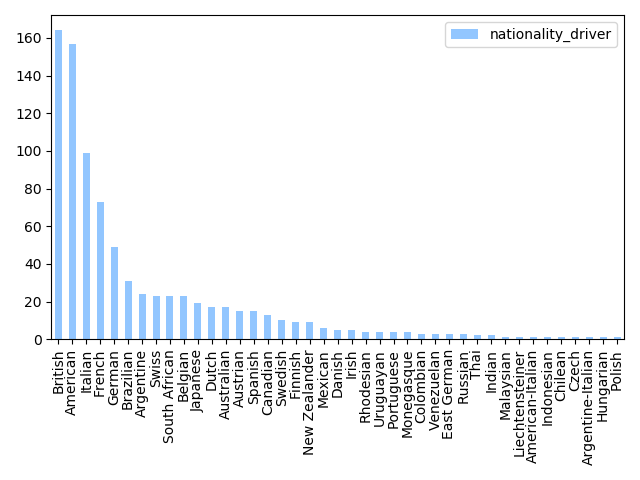
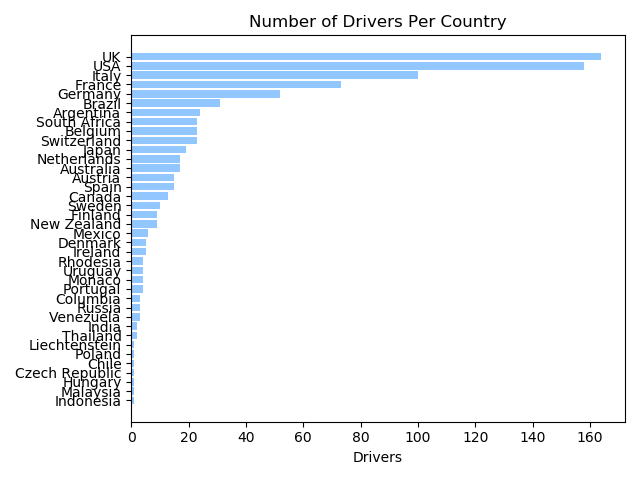
finished refactor and mvp functions

Changed region(s): [[0.0312, 0.0312, 1.0, 0.9688], [0.375, 0.875, 0.4062, 0.9375]]

diff --git a/src/f1_home_advantage.py b/src/f1_home_advantage.py
@@ -187,7 +187,7 @@ class F1Home:
             # the tilde (\~) signifies "not" so ~mask_driver_has_home_circuit reads 'not mask_driver_has_home_circuit'
             df_results_driver_no_home_race = df_valid_results[~mask_driver_has_home_circuit]
             # num_drivers_without_home_race = df_results_driver_no_home_race.groupby('driverId').unique().count()
-            # breakpoint()
+
             df_home_races = df_results_of_drivers_who_have_home_race[df_results_of_drivers_who_have_home_race['country_driver'] == df_results_of_drivers_who_have_home_race['country_cir']]
             df_away_races = df_results_of_drivers_who_have_home_race[df_results_of_drivers_who_have_home_race['country_driver'] != df_results_of_drivers_who_have_home_race['country_cir']]
 
@@ -209,7 +209,7 @@ class F1Home:
 
             return all_means, df_driver_means
 
-    def show_driver_country_vis(self):
+    def show_driver_country_vertical(self):
         dr_country = self.cleaned_drivers['nationality_driver'].value_counts().to_frame()
         dr_country.plot(kind='bar')
         plt.tight_layout()
@@ -219,18 +219,18 @@ class F1Home:
     def show_driver_countries(self):
             fig, ax = plt.subplots()
             country_names_dict = self.cleaned_drivers['country_driver'].value_counts().to_dict()
-            breakpoint()
+            countries = list(country_names_dict.values())
+            y_pos = np.arange(len(country_names_dict))
 
-            #y_pos
-            #WHY DON'T YOU WORK??????!!!!!!!  - AH-HA!have to use numbers on the x axis
-            
-            # driver_countries = self.cleaned_drivers['nationality_driver'].value_counts().to_dict()
-            # print(type(driver_countries))
-            # print(driver_countries)
-            # fig = plt.figure()
-            # ax = fig.add_subplot(111)
-            # ax.bar(driver_countries.keys(), driver_countries.items())
-            # ax.set_title('''Driver's Home Countries''')
+            ax.barh(y_pos, countries, align='center')
+            ax.set_yticks((y_pos))
+            ax.set_yticklabels(country_names_dict.keys())
+            ax.invert_yaxis() # labels read top-to-bottom
+            ax.set_xlabel('Drivers')
+            ax.set_title('Number of Drivers Per Country')
+            plt.tight_layout()
+            plt.savefig('../img/driver_country_count_bar')
+            plt.show()
 
     def show_drivers_with_home_race_pie(self):
         #pie chart of drivers with home vs no home  
@@ -238,7 +238,6 @@ class F1Home:
         mask_has_home = self.cleaned_drivers['country_driver'].isin(self.cleaned_circuits['country_cir'])
         has_home = self.cleaned_drivers[mask_has_home]
         no_home = self.cleaned_drivers[~mask_has_home]
-        breakpoint()
         sizes = [len(has_home), len(no_home)]
         explode = (0, 0.1)  # only "explode" the 2nd slice (i.e. 'no_home')
 
@@ -246,15 +245,16 @@ class F1Home:
         ax.pie(sizes, explode=explode, labels=labels, autopct='%1.1f%%',
                 shadow=True, startangle=90)
         ax.axis('equal')  # Equal aspect ratio ensures that pie is drawn as a circle.
-        ax.title('''Driver's With Home Race''')
+        ax.set_title('''Driver's With Home Race''')
 
+        plt.savefig('../img/drivers_with_home_pie.png')
         plt.show()
     
     def print_bar_chart(self, y_data, title, y_label, x_data, make_x_ticks=False, saveFigName=''):
         fig = plt.figure(figsize=(10, 6))
         ax = fig.add_subplot(111)
         x = x_data
-        #breakpoint()
+
         if make_x_ticks:
             x = np.arange(len(x_data))
             plt.xticks(x, x_data)
@@ -290,6 +290,18 @@ class F1Home:
         
         plt.show()
 
+    def show_wins_per_construtor(self):
+        #create mask and groupby constructor name and specify colums to inlude in final dataframe
+        mask_wins = self.df_all['position_result'] == 1
+        wins_by_constructor = self.df_all[(mask_wins)].groupby(['name_constr']).sum()[['position_result', 'points_result']]
+        ## sort 
+        wins_by_constructor.sort_values(by=['position_result'], ascending=False, inplace=True)
+        print(wins_by_constructor.head(10))
+
+        # all in one line
+        #wins_by_constructor = self.df_all[(mask_wins)].groupby(['name_constr']).sum()[['position_result', 'points_result']].sort_values(by=['points_result'], ascending=False)
+
+
         
     
 if __name__ == '__main__':
@@ -301,7 +313,7 @@ if __name__ == '__main__':
     raw_constructor_path = '../data/constructors.csv'
     raw_status_path = '../data/status.csv'
 
-    results_cols = ['resultId','raceId','driverId', 'constructorId','position','statusId']
+    results_cols = ['resultId','raceId','driverId', 'constructorId','position','statusId', 'points']
     races_cols = ['raceId','year','round','circuitId','name','date','time']
     drivers_cols = ['driverId','driverRef','number','code','forename','surname','dob','nationality']
     circuits_cols = ['circuitId','name','location','country','lat','lng','alt']
@@ -315,14 +327,15 @@ if __name__ == '__main__':
 
     all_result_means, driver_home_ratio = f_one.calculate_home_advantage()
 
-    #f_one.show_driver_country_vis()
-    #f_one.show_drivers_with_home_race_pie()
-    #f_one.show_drivers_average_means(all_result_means)
-    #f_one.show_home_away_comp(all_result_means)
-    f_one.show_home_away_ratio(driver_home_ratio)
-    #f_one.show_driver_countries()
-
+    # Visualizations
+    # f_one.show_driver_countries()
+    # f_one.show_drivers_with_home_race_pie()
+    # f_one.show_drivers_average_means(all_result_means)
+    # f_one.show_home_away_comp(all_result_means)
+    # f_one.show_home_away_ratio(driver_home_ratio)
     
+    # Info printed to terminal
+    f_one.show_wins_per_construtor()
 
     
 
@@ -333,16 +346,7 @@ if __name__ == '__main__':
     # ********************************************************** '''
     # #REMINDER : mask - grouby - agg - col selection - sort
 
-    # #***Number of wins per contructor
-    # # #create mask and groupby constructor name and specify colums to inlude in final dataframe
-    # # mask_wins = df_all['positionOrder_result'] == 1
-    # # wins_by_constructor = df_all[(mask_wins)].groupby(['name_constr']).sum()[['positionOrder_result', 'points_result']]
-    # # ## sort 
-    # # wins_by_constructor.sort_values(by=['positionOrder_result'], ascending=False, inplace=True)
-    # # print(wins_by_constructor.head(10))
-    # # # all in one line
-    # # wins_by_constructor = df_all[(mask_wins)].groupby(['name_constr']).sum()[['positionOrder_result', 'points_result']].sort_values(by=['points_result'], ascending=False)
-
+    
     # '''
     # HYPOTH 1 - Comparing 'home' wins to 'away' wins
     # How to organize this data? Have to exclude drivers who don't have a race in their home country.

diff --git a/README.md b/README.md
@@ -1,6 +1,8 @@
 cd # Formula-One-Home-Advantage
 This project explores the question of whether the idea of a "home-field advantage" occurs in Formula One racing. Uses Python, Pandas, Numpy and MatPlotLib.
 
+
+
 <h1>The Data</h1>
 Data decisions
 only used races that the driver finished
